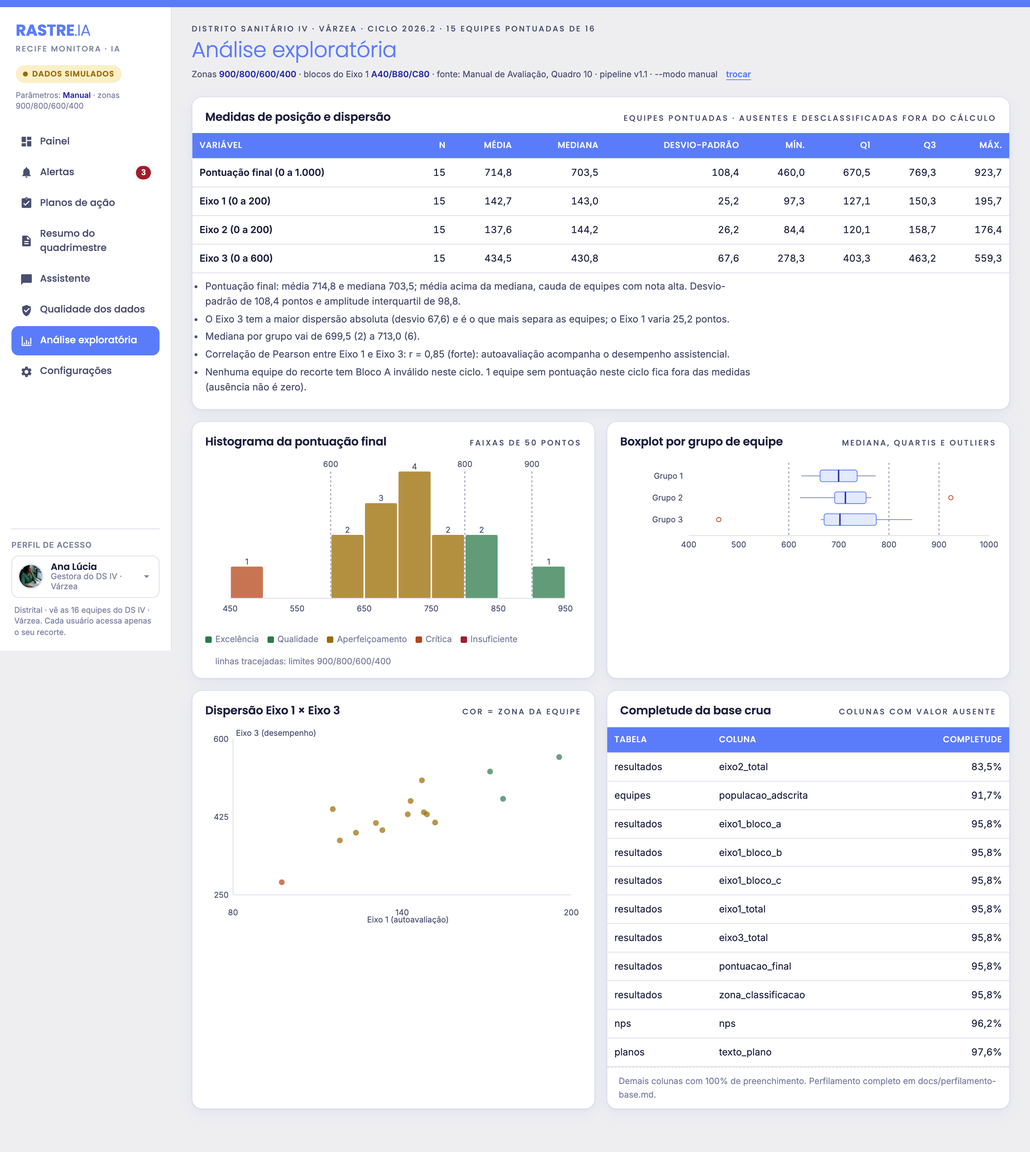
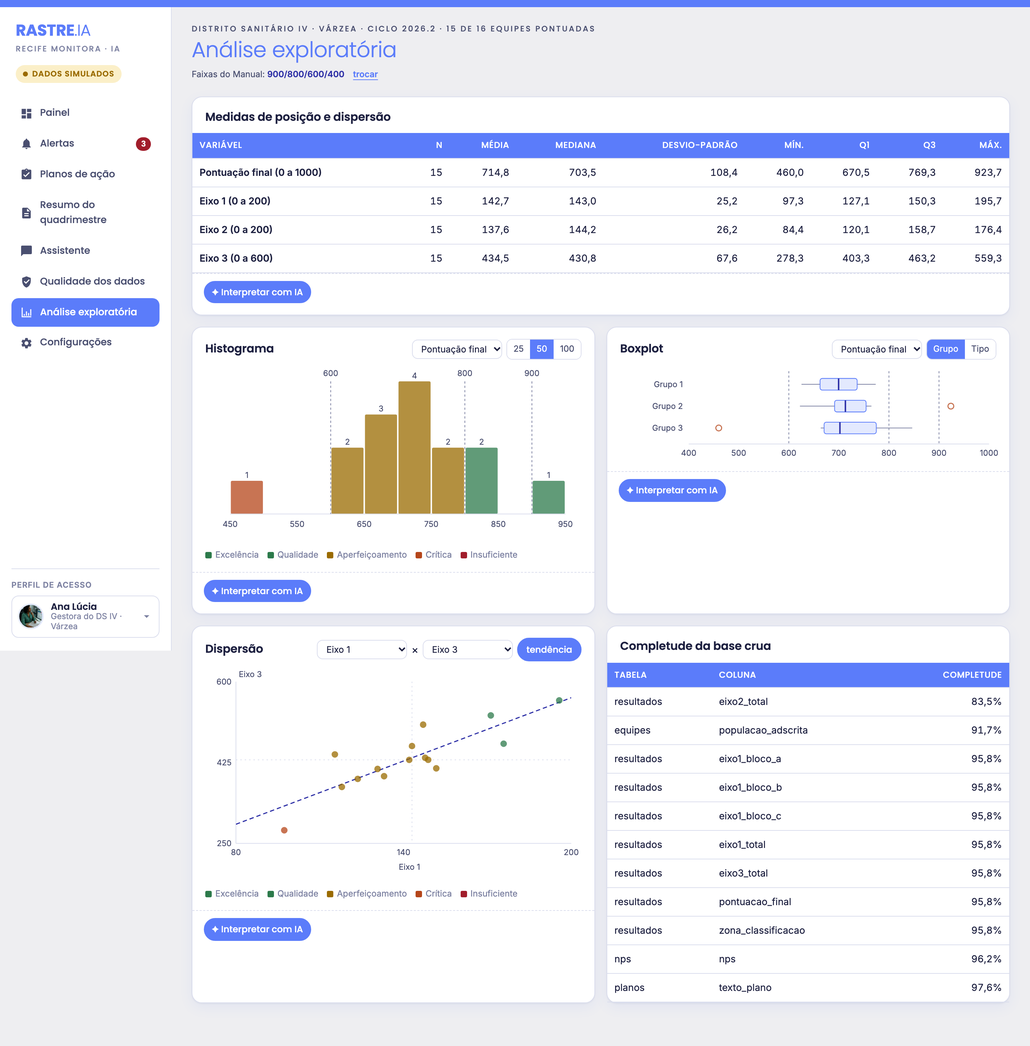
Protótipo 6: menos texto de detalhe; análise exploratória interativa com interpretação por IA

diff --git a/app/mvp6.html b/app/mvp6.html
@@ -301,18 +301,26 @@ tr.click{cursor:pointer}tr.click:hover td{background:var(--surface-2)}
 .lvl{display:inline-flex;align-items:center;gap:4px;font-size:10.5px;font-weight:600;color:var(--navy);background:var(--accent-soft);border-radius:999px;padding:2px 7px 2px 5px;margin-top:5px}
 .lvl svg{width:12px;height:12px;fill:currentColor}
 .usel-menu button.on .lvl{background:var(--accent);color:var(--accent-ink)}
-.acl-note{font-size:11px;color:var(--muted);margin-top:10px;line-height:1.4;padding:0 4px}
 .params{display:flex;flex-wrap:wrap;gap:6px;align-items:center;font-size:12px;color:var(--ink-2);margin-top:8px}
 .params b{font-weight:600;color:var(--navy)}
 .params button{color:var(--accent);font-weight:600;text-decoration:underline;text-underline-offset:3px}
-.side .pmode{margin:-12px 6px 0;font-size:11px;color:var(--muted);line-height:1.35}
-.side .pmode b{color:var(--navy)}
 .st-ok{background:var(--good-soft);color:var(--good)}.st-sin{background:var(--warn-soft);color:var(--warn)}
 .charts{display:grid;grid-template-columns:1fr 1fr;gap:16px;margin-top:16px}
 @media (max-width:980px){.charts{grid-template-columns:1fr}}
 .chart{padding:0 16px 14px}.chart svg{width:100%;height:auto;display:block}
 .chart text{font:11px Inter,system-ui,sans-serif;fill:var(--ink-2)}
 .chart .ax{stroke:var(--line)}.chart .lim{stroke:var(--muted);stroke-dasharray:3 3}
+.an-ctl{display:flex;gap:6px;align-items:center;flex-wrap:wrap}
+.an-sel{font:12.5px Inter,system-ui,sans-serif;color:var(--ink);background:var(--surface);border:1px solid var(--line);border-radius:8px;padding:4px 8px}
+.an-seg{display:inline-flex;border:1px solid var(--line);border-radius:8px;overflow:hidden}.an-seg button{border:0;background:var(--surface);color:var(--ink-2);font-size:12px;padding:4px 9px;cursor:pointer}.an-seg button.on{background:var(--accent);color:var(--accent-ink)}
+.chart .hbar{opacity:.75;cursor:pointer;transition:opacity .15s}.chart .hbar:hover,.chart .hbar.on{opacity:1}.chart .hbar.on{stroke:var(--navy);stroke-width:2}
+.chart .bx{cursor:pointer}.chart .bx:hover rect+text+line+rect,.chart .bx.on rect+text+line+rect{fill:var(--lav)}.chart .pt{cursor:pointer;opacity:.75}.chart .pt:hover{opacity:1;stroke:var(--ink);stroke-width:1.5}
+.chart .med{stroke:var(--line);stroke-dasharray:2 4}
+.legend .lg{border:0;background:none;color:var(--muted);font:inherit;cursor:pointer;padding:0}.legend .lg::before{content:"";display:inline-block;width:9px;height:9px;border-radius:2px;margin-right:5px;vertical-align:middle;background:var(--x)}.legend .lg.off{opacity:.4;text-decoration:line-through}
+.an-list{margin:0 16px 12px;padding:10px 12px;border:1px solid var(--line);border-radius:10px;display:flex;flex-wrap:wrap;gap:6px}.an-list .ia-h{width:100%}
+.ia{padding:10px 16px 16px;border-top:1px dashed var(--line)}.ia.on{font-size:13.5px;color:var(--ink-2)}.ia.on p{margin:4px 0 8px;max-width:90ch}.ia.on ul{margin:4px 0 8px;padding-left:18px}.ia.on li{margin:3px 0;max-width:90ch}.ia .srcs{display:flex;flex-wrap:wrap;margin-top:6px}.ia .scope{font-size:11.5px;color:var(--muted);margin-top:4px}.ia .typing{padding:4px 0}
+.ia-h{display:flex;justify-content:space-between;align-items:center;gap:8px;margin-bottom:4px}
+.tip{position:fixed;z-index:60;pointer-events:none;background:var(--surface);color:var(--ink);border:1px solid var(--line);border-radius:8px;padding:6px 9px;font-size:12px;line-height:1.4;box-shadow:0 6px 18px rgba(0,0,0,.15);max-width:260px}
 .obs{padding:4px 18px 16px;margin:0;color:var(--ink-2);font-size:13.5px}.obs li{margin:4px 0;max-width:90ch}
 td.r,th.r{text-align:right}
 </style>
@@ -322,7 +330,6 @@ td.r,th.r{text-align:right}
     <button class="side-close" id="side-close" aria-label="Fechar menu">×</button>
     <div class="brand"><div class="wordmark"><b>RASTRE</b><span>.IA</span></div><small>Recife Monitora · IA</small></div>
     <span class="sim" title="Base sintética enviada pelo cliente em 24/09/2026. Nenhum valor é real.">Dados simulados</span>
-    <p class="pmode" id="pmode"></p>
     <nav class="nav" id="nav"></nav>
     <div class="profile">
       <label id="profile-label">Perfil de acesso</label>
@@ -330,7 +337,6 @@ td.r,th.r{text-align:right}
         <button class="usel-btn" id="usel-btn" aria-haspopup="listbox" aria-expanded="false" aria-labelledby="profile-label"><img id="usel-img" alt=""><span><b id="usel-n"></b><small id="usel-r"></small></span><svg class="chev" viewBox="0 0 24 24"><path d="M7 10l5 5 5-5z"/></svg></button>
         <div class="usel-menu" id="usel-menu" role="listbox" hidden></div>
       </div>
-      <p class="acl-note" id="acl-note"></p>
     </div>
   </aside>
   <main class="main" id="main"></main>
@@ -431,7 +437,7 @@ function spark(h,w=200,ht=28){const pts=h.map((v,i)=>[v,i]).filter(x=>x[0]!=null
   return`<svg class="spark" viewBox="0 0 ${w} ${ht}" preserveAspectRatio="none" aria-hidden="true"><path d="${d}" fill="none" stroke="${col}" stroke-width="2" stroke-linejoin="round"/><circle cx="${last[0]}" cy="${last[1]}" r="3" fill="${col}"/></svg>`}
 function renderNav(){const scoped=alerts(PROFILES[profile].scope).filter(a=>!alertState[a.id]);const active=view==="equipe"?(origin?origin.view:"painel"):view;$("#nav").innerHTML=NAV.filter(([k])=>!["qualidade","analise"].includes(k)||profile!=="local").map(([k,l,p])=>`<button class="${active===k?"on":""}" data-v="${k}"><svg viewBox="0 0 24 24" fill="currentColor"><path d="${p}"/></svg>${l}${k==="alertas"&&scoped.length?`<span class="cnt">${scoped.length}</span>`:""}</button>`).join("");
   $("#nav").querySelectorAll("button").forEach(b=>b.onclick=()=>{view=b.dataset.v;selTeam=null;origin=null;$("#side").classList.remove("open");render();window.scrollTo(0,0)})}
-function paramLine(){return`<p class="params"><span>Zonas <b>${ZTXT}</b> · blocos do Eixo 1 <b>A${BMAX.a}/B${BMAX.b}/C${BMAX.c}</b> · fonte: ${FONTE.zonas} · ${FONTE.versao}</span><button data-go="config">trocar</button></p>`}
+function paramLine(){return`<p class="params"><span title="Zonas ${ZTXT} · blocos do Eixo 1 A${BMAX.a}/B${BMAX.b}/C${BMAX.c} · fonte: ${FONTE.zonas} · ${FONTE.versao}">Faixas do ${FONTE.curto}: <b>${ZTXT}</b></span><button data-go="config">trocar</button></p>`}
 function header(title,sub,right=""){return`<div class="topbar"><div><button class="menu-btn btn sm" id="menu">☰ Menu</button><p class="sub">${sub}</p><h1>${title}</h1>${paramLine()}</div><div class="filters">${right}</div></div>`}
 function teamCard(t){const s=score(t),st=status(t),z=zone(s),d=delta(t),b=breakdown(t);
   return`<button class="team ${st!=="ok"?"np":""}" data-id="${t.id}"><span class="nm">${t.nome}</span><span class="usf">${profile==="central"?dsShort(t.ds)+" · ":""}${t.tipo} · grupo ${t.grupo} · ${t.prof} prof.</span>${st==="ok"?`<span class="sc"><b class="num">${s}</b>${deltaHtml(d&&d.d)}</span><span class="zone ${z.cls}">${z.name}</span>`:`<span class="sc"><b class="num" style="color:var(--muted)">—</b></span><span class="badge ${st==="desclassificada"?"warn":"mute"}">${st==="desclassificada"?"Desclassificada":"Não participou"} em ${CURC}</span>`}<span class="badges">${b&&!b.av?'<span class="badge warn" title="Taxa de resposta da pesquisa interna abaixo de 30%">Bloco A inválido</span>':""}${b&&b.e2r?'<span class="badge info" title="Eixo 2 ausente na extração; reconstruído pelo pipeline">Eixo 2 reconstruído</span>':""}</span>${spark(hist(t))}</button>`}
@@ -444,7 +450,7 @@ function vPainel(){const P=PROFILES[profile];let list=teams.filter(P.scope);if(p
   const al=alerts(P.scope).filter(a=>!alertState[a.id]).slice(0,4);
   return header(profile==="local"?"Minha unidade":"Painel do distrito",`${P.label} · ciclo ${CURC} · ${list.length} equipes`,zones.map(z=>`<button class="chip ${filterZone===z?"on":""}" data-z="${z}">${z==="todas"?"Todas":z}</button>`).join(""))+tiles(list)+
   `<div class="grid2"><section class="card"><div class="sec-h"><h2>Semáforo das equipes</h2><span class="eyebrow">menor para maior pontuação</span></div><div class="teams">${shown.map(teamCard).join("")||'<div class="empty">Nenhuma equipe neste filtro.</div>'}</div></section>
-  <section class="card"><div class="sec-h"><h2>Prioridades da semana</h2><button class="more" data-go="alertas">Ver todos</button></div><div class="alerts">${al.map(alertRow).join("")||'<div class="empty">Nenhum alerta aberto neste recorte. Tudo o que foi tratado ou adiado fica em Alertas.</div>'}</div><div class="ai-note">Severidade: zonas ${ZTXT} (${FONTE.zonas}), variação desde o último ciclo com dados, participação e validade do Bloco A. Critérios a validar com o NIIMA.</div></section></div>`}
+  <section class="card"><div class="sec-h"><h2>Prioridades da semana</h2><button class="more" data-go="alertas">Ver todos</button></div><div class="alerts">${al.map(alertRow).join("")||'<div class="empty">Nenhum alerta aberto neste recorte. Tudo o que foi tratado ou adiado fica em Alertas.</div>'}</div></section></div>`}
 function alertRow(a){const st=alertState[a.id]||"";const S={crit:"Crítico",alto:"Alto",aten:"Atenção"};return`<div class="alert ${st}" data-aid="${a.id}"><div class="stripe" style="background:var(--${a.sev==="crit"?"crit":a.sev==="alto"?"serious":"warn"})"></div><div><span class="sev sev-${a.sev}">${S[a.sev]}</span><div class="t">${a.t}</div><div class="w">${a.w}</div></div><div class="act"><button class="btn pri sm" data-open="${a.team.id}">${a.act}</button>${st?`<button class="btn sm" data-undo="${a.id}">Desfazer</button>`:`<button class="btn sm" data-done="${a.id}">Tratar</button><button class="btn sm" data-snooze="${a.id}">Adiar</button>`}</div></div>`}
 function vAlertas(){const P=PROFILES[profile];const al=alerts(P.scope);const open=al.filter(a=>!alertState[a.id]);
   return header("Alertas de priorização",`${P.label} · ${open.length} abertos · ordenados por urgência`,`<span class="chip">Envio: e-mail institucional (diário)</span><span class="chip">WhatsApp e Telegram: sob aprovação</span>`)+`<section class="card"><div class="alerts">${al.map(alertRow).join("")||'<div class="empty">Sem alertas para este recorte.</div>'}</div></section>`}
@@ -525,34 +531,102 @@ const qs=(a,p)=>{const s=[...a].sort((x,y)=>x-y),i=(s.length-1)*p,lo=Math.floor(
 function desc(a){const n=a.length;if(!n)return null;const m=a.reduce((x,y)=>x+y,0)/n;const sd=Math.sqrt(a.reduce((x,y)=>x+(y-m)**2,0)/(n>1?n-1:1));return{n,m,md:qs(a,.5),sd,mn:Math.min(...a),mx:Math.max(...a),q1:qs(a,.25),q3:qs(a,.75)}}
 const f1=v=>v==null?"—":v.toLocaleString("pt-BR",{minimumFractionDigits:1,maximumFractionDigits:1});
 const ZCOL={"z-exc":"var(--good)","z-qua":"var(--good)","z-ape":"var(--warn)","z-cri":"var(--serious)","z-ins":"var(--crit)"};
-function histSvg(v){const W=520,H=220,L=36,B=28,T=18,lo=Math.floor(Math.min(...v)/50)*50,hi=Math.ceil((Math.max(...v)+.01)/50)*50,nb=(hi-lo)/50;const c=Array(nb).fill(0);v.forEach(x=>c[Math.min(nb-1,Math.floor((x-lo)/50))]++);const mx=Math.max(...c);const bw=(W-L-24)/nb;const X=x=>L+(x-lo)/(hi-lo)*(W-L-24);
-  return`<svg viewBox="0 0 ${W} ${H}" role="img" aria-label="Histograma da pontuação final">${c.map((k,i)=>{const hh=k/mx*(H-B-T);const z=zone(lo+i*50+25);return`<rect x="${L+i*bw+1}" y="${H-B-hh}" width="${bw-2}" height="${hh}" rx="2" fill="${ZCOL[z.cls]||"var(--bar)"}" opacity=".75"><title>${lo+i*50} a ${lo+i*50+49}: ${k} equipes</title></rect>${k?`<text x="${L+i*bw+bw/2}" y="${H-B-hh-3}" text-anchor="middle">${k}</text>`:""}`}).join("")}
-  <line class="ax" x1="${L}" y1="${H-B}" x2="${W-24}" y2="${H-B}"/>${ZONES.slice(0,4).filter(z=>z[2]>lo&&z[2]<hi).map(z=>`<line class="lim" x1="${X(z[2])}" y1="${T}" x2="${X(z[2])}" y2="${H-B}"/><text x="${X(z[2])}" y="${T-6}" text-anchor="middle">${z[2]}</text>`).join("")}${Array.from({length:nb+1},(_,i)=>lo+i*50).filter((_,i)=>i%2===0).map(x=>`<text x="${X(x)}" y="${H-10}" text-anchor="middle">${x}</text>`).join("")}</svg>`}
-function boxSvg(groups){const W=520,H=40+groups.length*30,L=96,R=12;const all=groups.flatMap(g=>g.v);const lo=Math.floor(Math.min(...all)/100)*100,hi=Math.ceil(Math.max(...all)/100)*100;const X=x=>L+(x-lo)/(hi-lo)*(W-L-R);
-  return`<svg viewBox="0 0 ${W} ${H}" role="img" aria-label="Boxplot da pontuação final por distrito">${ZONES.slice(0,4).filter(z=>z[2]>lo&&z[2]<hi).map(z=>`<line class="lim" x1="${X(z[2])}" y1="6" x2="${X(z[2])}" y2="${H-24}"/>`).join("")}${groups.map((g,i)=>{const d=desc(g.v),y=14+i*30,iqr=d.q3-d.q1,wl=Math.min(...g.v.filter(x=>x>=d.q1-1.5*iqr)),wh=Math.max(...g.v.filter(x=>x<=d.q3+1.5*iqr)),out=g.v.filter(x=>x<wl||x>wh);
-  return`<text x="${L-8}" y="${y+14}" text-anchor="end">${g.n}</text><line x1="${X(wl)}" y1="${y+10}" x2="${X(wh)}" y2="${y+10}" stroke="var(--muted)"/><rect x="${X(d.q1)}" y="${y+2}" width="${Math.max(1,X(d.q3)-X(d.q1))}" height="16" rx="3" fill="var(--accent-soft)" stroke="var(--accent)"><title>${g.n}: mediana ${f1(d.md)}, Q1 ${f1(d.q1)}, Q3 ${f1(d.q3)}, n=${d.n}</title></rect><line x1="${X(d.md)}" y1="${y+2}" x2="${X(d.md)}" y2="${y+18}" stroke="var(--navy)" stroke-width="2"/>${out.map(o=>`<circle cx="${X(o)}" cy="${y+10}" r="3" fill="none" stroke="var(--serious)"/>`).join("")}`}).join("")}
-  <line class="ax" x1="${L}" y1="${H-24}" x2="${W-R}" y2="${H-24}"/>${Array.from({length:(hi-lo)/100+1},(_,i)=>lo+i*100).map(x=>`<text x="${X(x)}" y="${H-8}" text-anchor="middle">${x}</text>`).join("")}</svg>`}
-function scatterSvg(pt){const W=520,H=270,L=40,B=40,T=16,R=16;const xs=pt.map(p=>p.x),ys=pt.map(p=>p.y);const x0=Math.floor(Math.min(...xs)/20)*20,x1=Math.ceil(Math.max(...xs)/20)*20,y0=Math.floor(Math.min(...ys)/50)*50,y1=Math.ceil(Math.max(...ys)/50)*50;const X=x=>L+(x-x0)/(x1-x0)*(W-L-R),Y=y=>H-B-(y-y0)/(y1-y0)*(H-B-T);
-  return`<svg viewBox="0 0 ${W} ${H}" role="img" aria-label="Dispersão Eixo 1 por Eixo 3"><line class="ax" x1="${L}" y1="${H-B}" x2="${W-R}" y2="${H-B}"/><line class="ax" x1="${L}" y1="${T}" x2="${L}" y2="${H-B}"/>${pt.map(p=>`<circle cx="${X(p.x).toFixed(1)}" cy="${Y(p.y).toFixed(1)}" r="4" fill="${ZCOL[p.z]||"var(--bar)"}" opacity=".7"><title>${p.n}: Eixo 1 ${f1(p.x)}, Eixo 3 ${f1(p.y)}</title></circle>`).join("")}
-  ${[x0,(x0+x1)/2,x1].map(x=>`<text x="${X(x)}" y="${H-12}" text-anchor="middle">${Math.round(x)}</text>`).join("")}${[y0,(y0+y1)/2,y1].map(y=>`<text x="${L-6}" y="${Y(y)+4}" text-anchor="end">${Math.round(y)}</text>`).join("")}<text x="${(W+L)/2}" y="${H-2}" text-anchor="middle">Eixo 1 (autoavaliação)</text><text x="${L+4}" y="${T-4}">Eixo 3 (desempenho)</text></svg>`}
+/* ---------- análise exploratória interativa ---------- */
+const AN={hv:"f",bin:50,bg:null,bv:"f",sx:"e1",sy:"e3",hide:[],trend:true,sel:null,ia:{}};
+const VARS=()=>({f:["Pontuação final",1000],e1:["Eixo 1",BMAX.a+BMAX.b+BMAX.c],e2:["Eixo 2",200],e3:["Eixo 3",600]});
+const pct=(a,b)=>b?Math.round(a/b*100)+"%":"—";
+const esc=s=>String(s).replace(/&/g,"&amp;").replace(/"/g,"&quot;").replace(/</g,"&lt;");
 function corr(a,b){const n=a.length,ma=a.reduce((x,y)=>x+y,0)/n,mb=b.reduce((x,y)=>x+y,0)/n;let s=0,sa=0,sb=0;for(let i=0;i<n;i++){s+=(a[i]-ma)*(b[i]-mb);sa+=(a[i]-ma)**2;sb+=(b[i]-mb)**2}return s/Math.sqrt(sa*sb)}
+function reg(a,b){const n=a.length,ma=a.reduce((x,y)=>x+y,0)/n,mb=b.reduce((x,y)=>x+y,0)/n;let s=0,sa=0;for(let i=0;i<n;i++){s+=(a[i]-ma)*(b[i]-mb);sa+=(a[i]-ma)**2}const k=s/sa;return{k,c:mb-k*ma}}
+const nomes=(xs,n=3)=>xs.slice(0,n).map(x=>x.t.nome).join(", ")+(xs.length>n?` e mais ${xs.length-n}`:"");
+function anGroups(rs,by,k){const key={ds:x=>x.t.ds,grupo:x=>"Grupo "+x.t.grupo,tipo:x=>x.t.tipo}[by];const ord=by==="ds"?DISTRICTS:[...new Set(rs.map(key))].sort();
+  return ord.map(n=>({n:by==="ds"?dsShort(n):n,it:rs.filter(x=>key(x)===n&&x.r[k]!=null)})).map(g=>({...g,v:g.it.map(x=>x.r[k])})).filter(g=>g.v.length>1)}
+function segBtns(attr,cur,opts){return`<div class="an-seg" role="group">${opts.map(([k,l])=>`<button class="${cur===k?"on":""}" ${attr}="${k}" aria-pressed="${cur===k}">${l}</button>`).join("")}</div>`}
+function varSel(attr,cur){return`<select class="an-sel" ${attr}>${Object.entries(VARS()).map(([k,[n]])=>`<option value="${k}" ${cur===k?"selected":""}>${n}</option>`).join("")}</select>`}
+
+function histSvg(it,k,bw){const v=it.map(x=>x.r[k]);const W=520,H=230,L=36,B=28,T=20,lo=Math.floor(Math.min(...v)/bw)*bw,hi=Math.ceil((Math.max(...v)+.01)/bw)*bw,nb=Math.max(1,Math.round((hi-lo)/bw));const c=Array.from({length:nb},()=>[]);it.forEach(x=>c[Math.min(nb-1,Math.floor((x.r[k]-lo)/bw))].push(x));const mx=Math.max(...c.map(b=>b.length));const w=(W-L-24)/nb;const X=x=>L+(x-lo)/(hi-lo)*(W-L-24);const S=AN.sel&&AN.sel.k==="h"?AN.sel:null;
+  return`<svg viewBox="0 0 ${W} ${H}" role="img" aria-label="Histograma de ${VARS()[k][0]}">${c.map((b,i)=>{const a=lo+i*bw,hh=b.length/mx*(H-B-T);const col=k==="f"?ZCOL[zone(a+bw/2).cls]:"var(--bar)";const on=S&&S.lo===a;
+    return`<rect class="hbar${on?" on":""}" x="${L+i*w+1}" y="${H-B-hh}" width="${Math.max(1,w-2)}" height="${Math.max(hh,b.length?1:0)}" rx="2" fill="${col}" data-hb="${a}" data-tip="<b>${a} a ${a+bw}</b><br>${b.length} equipe${b.length===1?"":"s"} · ${pct(b.length,it.length)}"></rect>${b.length?`<text x="${L+i*w+w/2}" y="${H-B-hh-4}" text-anchor="middle">${b.length}</text>`:""}`}).join("")}
+  <line class="ax" x1="${L}" y1="${H-B}" x2="${W-24}" y2="${H-B}"/>${k==="f"?ZONES.slice(0,4).filter(z=>z[2]>lo&&z[2]<hi).map(z=>`<line class="lim" x1="${X(z[2])}" y1="${T}" x2="${X(z[2])}" y2="${H-B}"/><text x="${X(z[2])}" y="${T-7}" text-anchor="middle">${z[2]}</text>`).join(""):""}${Array.from({length:nb+1},(_,i)=>lo+i*bw).filter((_,i)=>i%Math.ceil((nb+1)/8)===0).map(x=>`<text x="${X(x)}" y="${H-10}" text-anchor="middle">${x}</text>`).join("")}</svg>`}
+
+function boxSvg(groups,k){const W=520,H=40+groups.length*30,L=96,R=12;const all=groups.flatMap(g=>g.v);const st=k==="f"?100:k==="e3"?50:20;const lo=Math.floor(Math.min(...all)/st)*st,hi=Math.ceil(Math.max(...all)/st)*st;const X=x=>L+(x-lo)/(hi-lo)*(W-L-R);const S=AN.sel&&AN.sel.k==="b"?AN.sel.g:null;
+  return`<svg viewBox="0 0 ${W} ${H}" role="img" aria-label="Boxplot de ${VARS()[k][0]}">${k==="f"?ZONES.slice(0,4).filter(z=>z[2]>lo&&z[2]<hi).map(z=>`<line class="lim" x1="${X(z[2])}" y1="6" x2="${X(z[2])}" y2="${H-24}"/>`).join(""):""}${groups.map((g,i)=>{const d=desc(g.v),y=14+i*30,iqr=d.q3-d.q1,wl=Math.min(...g.v.filter(x=>x>=d.q1-1.5*iqr)),wh=Math.max(...g.v.filter(x=>x<=d.q3+1.5*iqr)),out=g.it.filter(x=>x.r[k]<wl||x.r[k]>wh);const on=S===g.n;
+  return`<g class="bx${on?" on":""}" data-bg="${esc(g.n)}" data-tip="<b>${esc(g.n)}</b> · n=${d.n}<br>mediana ${f1(d.md)} · Q1 ${f1(d.q1)} · Q3 ${f1(d.q3)}<br>mín. ${f1(d.mn)} · máx. ${f1(d.mx)}"><rect x="0" y="${y}" width="${W}" height="22" fill="transparent"/><text x="${L-8}" y="${y+14}" text-anchor="end">${esc(g.n)}</text><line x1="${X(wl)}" y1="${y+10}" x2="${X(wh)}" y2="${y+10}" stroke="var(--muted)"/><rect x="${X(d.q1)}" y="${y+2}" width="${Math.max(1,X(d.q3)-X(d.q1))}" height="16" rx="3" fill="var(--accent-soft)" stroke="var(--accent)"/><line x1="${X(d.md)}" y1="${y+2}" x2="${X(d.md)}" y2="${y+18}" stroke="var(--navy)" stroke-width="2"/></g>${out.map(o=>`<circle class="pt" cx="${X(o.r[k])}" cy="${y+10}" r="4" fill="var(--surface)" stroke="var(--serious)" stroke-width="1.5" data-id="${o.t.id}" data-tip="<b>${esc(o.t.nome)}</b><br>${f1(o.r[k])} pts · outlier · clique para abrir"/>`).join("")}`}).join("")}
+  <line class="ax" x1="${L}" y1="${H-24}" x2="${W-R}" y2="${H-24}"/>${Array.from({length:(hi-lo)/st+1},(_,i)=>lo+i*st).filter((_,i,a)=>i%Math.ceil(a.length/7)===0).map(x=>`<text x="${X(x)}" y="${H-8}" text-anchor="middle">${x}</text>`).join("")}</svg>`}
+
+function scatterSvg(pt,kx,ky){const V=VARS();const W=520,H=280,L=44,B=40,T=18,R=16;const xs=pt.map(p=>p.x),ys=pt.map(p=>p.y);const sx=kx==="f"?100:kx==="e3"?50:20,sy=ky==="f"?100:ky==="e3"?50:20;const x0=Math.floor(Math.min(...xs)/sx)*sx,x1=Math.ceil(Math.max(...xs)/sx)*sx||x0+sx,y0=Math.floor(Math.min(...ys)/sy)*sy,y1=Math.ceil(Math.max(...ys)/sy)*sy||y0+sy;const X=x=>L+(x-x0)/(x1-x0||1)*(W-L-R),Y=y=>H-B-(y-y0)/(y1-y0||1)*(H-B-T);
+  const vis=pt.filter(p=>!AN.hide.includes(p.z));const g=AN.trend&&vis.length>2?reg(vis.map(p=>p.x),vis.map(p=>p.y)):null;const mx=qs(xs,.5),my=qs(ys,.5);
+  return`<svg viewBox="0 0 ${W} ${H}" role="img" aria-label="Dispersão ${V[kx][0]} por ${V[ky][0]}"><defs><clipPath id="anclip"><rect x="${L}" y="${T}" width="${W-L-R}" height="${H-B-T}"/></clipPath></defs><line class="ax" x1="${L}" y1="${H-B}" x2="${W-R}" y2="${H-B}"/><line class="ax" x1="${L}" y1="${T}" x2="${L}" y2="${H-B}"/><line class="med" x1="${X(mx)}" y1="${T}" x2="${X(mx)}" y2="${H-B}"/><line class="med" x1="${L}" y1="${Y(my)}" x2="${W-R}" y2="${Y(my)}"/>
+  ${g?`<line x1="${X(x0)}" y1="${Y(g.c+g.k*x0)}" x2="${X(x1)}" y2="${Y(g.c+g.k*x1)}" stroke="var(--navy)" stroke-width="1.5" stroke-dasharray="6 4" clip-path="url(#anclip)"/>`:""}
+  ${vis.map(p=>`<circle class="pt" cx="${X(p.x).toFixed(1)}" cy="${Y(p.y).toFixed(1)}" r="4.5" fill="${ZCOL[p.z]||"var(--bar)"}" data-id="${p.id}" data-tip="<b>${esc(p.n)}</b><br>${V[kx][0]} ${f1(p.x)} · ${V[ky][0]} ${f1(p.y)}<br>clique para abrir a equipe"/>`).join("")}
+  ${[x0,(x0+x1)/2,x1].map(x=>`<text x="${X(x)}" y="${H-24}" text-anchor="middle">${Math.round(x)}</text>`).join("")}${[y0,(y0+y1)/2,y1].map(y=>`<text x="${L-6}" y="${Y(y)+4}" text-anchor="end">${Math.round(y)}</text>`).join("")}<text x="${(W+L)/2}" y="${H-4}" text-anchor="middle">${V[kx][0]}</text><text x="${L+4}" y="${T-6}">${V[ky][0]}</text></svg>`}
+
+/* interpretação: texto gerado a partir das estatísticas do recorte e dos filtros em uso (sem IA externa) */
+function iaTexto(key,ctx){const{rs,P,V}=ctx;const crit=rs.filter(x=>x.r.f<CRIT);
+  if(key==="med"){const cv=V.filter(x=>x.d).map(x=>({...x,cv:x.d.sd/x.d.m})).sort((a,b)=>b.cv-a.cv);const F=V[0].d;const inv=rs.filter(x=>!x.r.av);
+    return{o:`Resumo das ${F.n} equipes pontuadas de ${P.label} em ${CURC}: média ${f1(F.m)}, mediana ${f1(F.md)}, desvio-padrão ${f1(F.sd)}.`,
+      i:[`${Math.abs(F.m-F.md)<5?"Média e mediana próximas: distribuição simétrica, sem cauda que distorça a média.":F.m<F.md?`Média ${f1(F.md-F.m)} pontos abaixo da mediana: há uma cauda de equipes com nota baixa puxando a média; use a mediana para comparar recortes.`:"Média acima da mediana: poucas equipes com nota alta puxam a média."}`,
+        `${cv[0].n.split(" (")[0]} é a medida mais heterogênea em relação à própria média (coeficiente de variação ${pct(cv[0].cv,1)}); é onde as equipes mais se diferenciam e onde um apoio dirigido tem mais efeito.`,
+        inv.length?`${inv.length} equipe${inv.length===1?"":"s"} com Bloco A inválido: o Eixo 1 delas está subestimado por baixa adesão à pesquisa interna, não por desempenho.`:"Nenhuma equipe com Bloco A inválido: o Eixo 1 reflete a autoavaliação de todas."],
+      a:crit.length?`Priorizar as ${crit.length} equipes abaixo de ${CRIT} (${nomes(crit.sort((a,b)=>a.r.f-b.r.f))}).`:`Nenhuma equipe abaixo de ${CRIT}; foco em levar Aperfeiçoamento para Qualidade.`}}
+  if(key==="hist"){const k=AN.hv,[nm,max]=VARS()[k],it=rs.filter(x=>x.r[k]!=null),d=desc(it.map(x=>x.r[k]));const bw=AN.bin;const lo=Math.floor(d.mn/bw)*bw;const bins={};it.forEach(x=>{const a=lo+Math.floor((x.r[k]-lo)/bw)*bw;bins[a]=(bins[a]||0)+1});const moda=Object.entries(bins).sort((a,b)=>b[1]-a[1])[0];const in1=it.filter(x=>Math.abs(x.r[k]-d.m)<=d.sd).length;
+    const zz=k==="f"?ZONES.map(z=>[z[0],it.filter(x=>zone(x.r.f).name===z[0]).length]).filter(z=>z[1]):[];
+    return{o:`Distribuição de ${nm.toLowerCase()} em faixas de ${bw} pontos. A faixa mais frequente é ${moda[0]} a ${+moda[0]+bw} (${moda[1]} equipes).`,
+      i:[`${pct(in1,it.length)} das equipes estão a até um desvio-padrão da média (${f1(d.m-d.sd)} a ${f1(d.m+d.sd)}); metade está entre ${f1(d.q1)} e ${f1(d.q3)}.`,
+        k==="f"?`Por zona: ${zz.map(z=>`${z[0]} ${z[1]} (${pct(z[1],it.length)})`).join(", ")}.`:`A média equivale a ${pct(d.m,max)} do máximo de ${max} pontos; a margem de ganho do recorte neste eixo é de ${f1(max-d.m)} pontos por equipe.`,
+        d.mn<d.q1-1.5*(d.q3-d.q1)?`Há valores muito abaixo do conjunto (mínimo ${f1(d.mn)}): casos isolados, que pedem olhar individual e não ação para o recorte inteiro.`:`Sem valores extremos abaixo do conjunto: as notas baixas fazem parte de uma cauda contínua.`],
+      a:k==="f"&&crit.length?`Clicar nas barras à esquerda de ${CRIT} lista as equipes; cada nome abre a página da equipe.`:"Comparar com o boxplot no mesmo eixo para ver onde a cauda baixa se concentra."}}
+  if(key==="box"){const k=AN.bv,G=anGroups(rs,AN.bg,k).map(g=>({...g,d:desc(g.v)}));if(G.length<2)return{o:"O recorte tem um grupo só; não há comparação.",i:[],a:"Trocar o agrupamento."};const s=[...G].sort((a,b)=>a.d.md-b.d.md),h=[...G].sort((a,b)=>(b.d.q3-b.d.q1)-(a.d.q3-a.d.q1))[0];const peq=G.filter(g=>g.d.n<5);const lab={ds:"distrito",grupo:"grupo",tipo:"tipo de equipe"}[AN.bg];
+    const out=G.flatMap(g=>{const iqr=g.d.q3-g.d.q1;return g.it.filter(x=>x.r[k]<g.d.q1-1.5*iqr)});
+    return{o:`${VARS()[k][0]} por ${lab}: mediana de ${f1(s[0].d.md)} (${s[0].n}) a ${f1(s[s.length-1].d.md)} (${s[s.length-1].n}), diferença de ${f1(s[s.length-1].d.md-s[0].d.md)} pontos.`,
+      i:[`${s[s.length-1].d.md-s[0].d.md>50?`A diferença entre ${lab==="tipo de equipe"?"tipos":lab+"s"} é grande: parte do resultado acompanha o ${lab}, o que sugere fatores estruturais (porte, território, composição) além do desempenho individual.`:`As medianas são próximas: o ${lab} explica pouco da variação; as diferenças estão dentro de cada ${lab}.`}`,
+        `${h.n} tem a maior amplitude interquartil (${f1(h.d.q3-h.d.q1)} pontos): equipes muito diferentes entre si, que pedem apoio individual e não uma ação única para o ${lab}.`,
+        out.length?`Outliers abaixo: ${nomes(out.sort((a,b)=>a.r[k]-b.r[k]))}; ficam bem abaixo do próprio ${lab} e são candidatos a visita técnica.`:`Nenhum outlier abaixo: não há equipe isolada muito pior que o próprio ${lab}.`,
+        ...(peq.length?[`Cautela com ${peq.map(g=>g.n).join(", ")}: menos de 5 equipes, a mediana muda muito com uma equipe só.`]:[])],
+      a:`Começar por ${s[0].n} (menor mediana); clicar na caixa lista as equipes.`}}
+  if(key==="scat"){const kx=AN.sx,ky=AN.sy,V2=VARS();const pt=rs.filter(x=>x.r[kx]!=null&&x.r[ky]!=null&&!AN.hide.includes(zone(x.r.f).cls));if(pt.length<3||kx===ky)return{o:"Escolha dois eixos diferentes e mantenha ao menos 3 equipes visíveis.",i:[],a:""};const a=pt.map(x=>x.r[kx]),b=pt.map(x=>x.r[ky]);const r=corr(a,b),g=reg(a,b),mx=qs(a,.5),my=qs(b,.5);
+    const ll=pt.filter(x=>x.r[kx]<mx&&x.r[ky]<my).sort((p,q)=>p.r.f-q.r.f),hl=pt.filter(x=>x.r[kx]>=mx&&x.r[ky]<my).sort((p,q)=>p.r[ky]-q.r[ky]),lh=pt.filter(x=>x.r[kx]<mx&&x.r[ky]>=my);const f=Math.abs(r)<.3?"fraca":Math.abs(r)<.6?"moderada":"forte";
+    return{o:`${V2[kx][0]} × ${V2[ky][0]} em ${pt.length} equipes: correlação ${f} (r = ${r.toFixed(2).replace(".",",")}); cada ponto a mais em ${V2[kx][0]} acompanha ${g.k>=0?"+":""}${f1(g.k)} em ${V2[ky][0]}.`,
+      i:[Math.abs(r)<.3?`Os dois eixos medem coisas diferentes: ir bem em ${V2[kx][0]} não indica ir bem em ${V2[ky][0]}; cada eixo precisa do próprio acompanhamento.`:`Os eixos andam juntos: melhorar um tende a vir com o outro, e as equipes fracas costumam ser fracas nos dois.`,
+        `${ll.length} equipe${ll.length===1?"":"s"} abaixo da mediana nos dois eixos (quadrante inferior esquerdo)${ll.length?`: ${nomes(ll)}`:""}. São a prioridade dupla.`,
+        kx==="e1"&&hl.length?`${hl.length} equipe${hl.length===1?"":"s"} com autoavaliação acima da mediana e ${V2[ky][0]} abaixo: a autoavaliação pode estar otimista; vale conferir as evidências do Eixo 1.`:`${hl.length} equipe${hl.length===1?"":"s"} acima da mediana em ${V2[kx][0]} e abaixo em ${V2[ky][0]}; ${lh.length} no caso inverso.`,
+        "Correlação não é causa: a relação vale para o recorte e o ciclo, não explica uma equipe sozinha.",...(AN.hide.length?["Há zonas ocultas na legenda: o resultado vale só para as zonas visíveis e pode exagerar ou esconder a relação."]:[])],
+      a:"Clicar em um ponto abre a página da equipe; a legenda esconde ou mostra cada zona."}}
+  return{o:"",i:[],a:""}}
+function iaBox(key,ctx){const st=AN.ia[key];if(!st)return`<div class="ia"><button class="btn sm pri" data-ia="${key}">✦ Interpretar com IA</button></div>`;
+  if(st==="load")return`<div class="ia"><div class="typing">Analisando o gráfico e os dados do recorte…</div></div>`;
+  const x=iaTexto(key,ctx);return`<div class="ia on"><div class="ia-h"><span class="eyebrow">Interpretação da IA · ${ctx.P.label} · ${CURC}</span><button class="more" data-ia-x="${key}">fechar</button></div><p>${x.o}</p>${x.i.length?`<b>O que podemos inferir</b><ul>${x.i.map(l=>`<li>${l}</li>`).join("")}</ul>`:""}${x.a?`<b>Próximo passo</b><p>${x.a}</p>`:""}<div class="srcs"><span class="src">Base do cliente, ciclo ${CURC}</span><span class="src">Pipeline RASTRE.IA</span></div><div class="scope">Atualiza com os filtros do gráfico · revisar antes de usar em decisão · dados simulados</div></div>`}
+function selList(items,title){return items.length?`<div class="an-list"><div class="ia-h"><b>${title}</b><button class="more" data-an-x>limpar</button></div>${items.sort((a,b)=>a.r.f-b.r.f).map(x=>`<button class="chip" data-id="${x.t.id}">${x.t.nome} · ${score(x.t)}</button>`).join("")}</div>`:""}
+
 function vAnalise(){const P=PROFILES[profile];const list=teams.filter(P.scope);const rs=list.map(t=>({t,r:R(t)})).filter(x=>x.r);
-  const V=[["Pontuação final (0 a 1.000)","f"],[`Eixo 1 (0 a ${BMAX.a+BMAX.b+BMAX.c})`,"e1"],["Eixo 2 (0 a 200)","e2"],["Eixo 3 (0 a 600)","e3"]].map(([n,k])=>({n,k,d:desc(rs.map(x=>x.r[k]).filter(v=>v!=null))}));
-  const F=V[0].d;const porDs=profile==="central";const ds=(porDs?DISTRICTS.map(d=>({n:d,v:rs.filter(x=>x.t.ds===d).map(x=>x.r.f)})):[1,2,3,4].map(g=>({n:"Grupo "+g,v:rs.filter(x=>x.t.grupo===g).map(x=>x.r.f)}))).filter(g=>g.v.length>1);
-  const sc=rs.filter(x=>x.r.e1!=null&&x.r.e3!=null).map(x=>({x:x.r.e1,y:x.r.e3,z:zone(x.r.f).cls,n:x.t.nome}));const r13=sc.length>2?corr(sc.map(p=>p.x),sc.map(p=>p.y)):null;
-  const byD=ds.map(g=>({n:g.n,...desc(g.v)})).sort((a,b)=>a.md-b.md);const inv=rs.filter(x=>!x.r.av).length;const np=list.length-rs.length;
+  const VV=VARS();const V=Object.entries(VV).map(([k,[n,max]])=>({n:`${n} (0 a ${max})`,k,d:desc(rs.map(x=>x.r[k]).filter(v=>v!=null))}));const ctx={rs,P,V};
+  if(!AN.bg||(AN.bg==="ds"&&profile!=="central"))AN.bg=profile==="central"?"ds":"grupo";
+  const hi=rs.filter(x=>x.r[AN.hv]!=null);const G=anGroups(rs,AN.bg,AN.bv);
+  const sc=rs.filter(x=>x.r[AN.sx]!=null&&x.r[AN.sy]!=null).map(x=>({x:x.r[AN.sx],y:x.r[AN.sy],z:zone(x.r.f).cls,n:x.t.nome,id:x.t.id}));
+  const S=AN.sel;const hsel=S&&S.k==="h"?hi.filter(x=>x.r[AN.hv]>=S.lo&&x.r[AN.hv]<S.lo+AN.bin):[];const bsel=S&&S.k==="b"?(G.find(g=>g.n===S.g)||{it:[]}).it:[];
   const PF=PAC.meta.perfil;const low=PF.flatMap(p=>Object.entries(p.completude).filter(([,v])=>v<1).map(([c,v])=>({t:p.tabela,c,v}))).sort((a,b)=>a.v-b.v);
-  return header("Análise exploratória",`${P.label} · ciclo ${CURC} · ${rs.length} equipes pontuadas de ${list.length}`)+
-  `<section class="card"><div class="sec-h"><h2>Medidas de posição e dispersão</h2><span class="eyebrow">equipes pontuadas · ausentes e desclassificadas fora do cálculo</span></div><div class="tbl-wrap"><table><thead><tr><th>Variável</th><th class="r">n</th><th class="r">Média</th><th class="r">Mediana</th><th class="r">Desvio-padrão</th><th class="r">Mín.</th><th class="r">Q1</th><th class="r">Q3</th><th class="r">Máx.</th></tr></thead><tbody>${V.filter(x=>x.d).map(x=>`<tr><td><b>${x.n}</b></td>${[x.d.n,x.d.m,x.d.md,x.d.sd,x.d.mn,x.d.q1,x.d.q3,x.d.mx].map((v,i)=>`<td class="num r">${i?f1(v):v}</td>`).join("")}</tr>`).join("")}</tbody></table></div>
-  <ul class="obs"><li>Pontuação final: média ${f1(F.m)} e mediana ${f1(F.md)}; ${Math.abs(F.m-F.md)<5?"distribuição aproximadamente simétrica":F.m<F.md?"média abaixo da mediana, cauda de equipes com nota baixa puxa a média para baixo":"média acima da mediana, cauda de equipes com nota alta"}. Desvio-padrão de ${f1(F.sd)} pontos e amplitude interquartil de ${f1(F.q3-F.q1)}.</li>
-  ${V[3].d&&V[1].d?`<li>O Eixo 3 tem a maior dispersão absoluta (desvio ${f1(V[3].d.sd)}) e é o que mais separa as equipes; o Eixo 1 varia ${f1(V[1].d.sd)} pontos.</li>`:""}
-  ${byD.length>1?`<li>Mediana ${porDs?"por distrito":"por grupo"} vai de ${f1(byD[0].md)} (${porDs?dsShort(byD[0].n):byD[0].n}) a ${f1(byD[byD.length-1].md)} (${porDs?dsShort(byD[byD.length-1].n):byD[byD.length-1].n}).</li>`:""}
-  ${r13!=null?`<li>Correlação de Pearson entre Eixo 1 e Eixo 3: r = ${r13.toFixed(2).replace(".",",")} (${Math.abs(r13)<.3?"fraca":Math.abs(r13)<.6?"moderada":"forte"}): ${Math.abs(r13)<.3?"autoavaliação e desempenho assistencial medem coisas distintas":"autoavaliação acompanha o desempenho assistencial"}.</li>`:""}
-  <li>${inv?`${inv} equipe${inv===1?" tem":"s têm"} Bloco A inválido (taxa de resposta abaixo de 30%): o bloco entra com 0 e puxa o Eixo 1 para baixo sem refletir desempenho.`:"Nenhuma equipe do recorte tem Bloco A inválido neste ciclo."} ${np?`${np} equipe${np===1?"":"s"} sem pontuação neste ciclo ${np===1?"fica":"ficam"} fora das medidas (ausência não é zero).`:""}</li></ul></section>
-  <div class="charts"><section class="card"><div class="sec-h"><h2>Histograma da pontuação final</h2><span class="eyebrow">faixas de 50 pontos</span></div><div class="chart">${F?histSvg(rs.map(x=>x.r.f)):""}</div><div class="legend">${ZONES.map(z=>`<span style="--x:${ZCOL[z[1]]}">${z[0]}</span>`).join("")}<span>linhas tracejadas: limites ${ZTXT}</span></div></section>
-  <section class="card"><div class="sec-h"><h2>Boxplot ${porDs?"por distrito":"por grupo de equipe"}</h2><span class="eyebrow">mediana, quartis e outliers</span></div><div class="chart">${ds.length?boxSvg(ds):'<div class="empty">Recorte com um distrito só.</div>'}</div></section>
-  <section class="card"><div class="sec-h"><h2>Dispersão Eixo 1 × Eixo 3</h2><span class="eyebrow">cor = zona da equipe</span></div><div class="chart">${scatterSvg(sc)}</div></section>
-  <section class="card"><div class="sec-h"><h2>Completude da base crua</h2><span class="eyebrow">colunas com valor ausente</span></div><div class="tbl-wrap"><table><thead><tr><th>Tabela</th><th>Coluna</th><th class="r">Completude</th></tr></thead><tbody>${low.map(x=>`<tr><td>${x.t}</td><td>${x.c}</td><td class="num r">${(x.v*100).toLocaleString("pt-BR",{maximumFractionDigits:1})}%</td></tr>`).join("")}</tbody></table></div><div class="ai-note">Demais colunas com 100% de preenchimento. Perfilamento completo em docs/perfilamento-base.md.</div></section></div>`}
+  const grp=[["grupo","Grupo"],["tipo","Tipo"]];if(profile==="central")grp.unshift(["ds","Distrito"]);
+  return header("Análise exploratória",`${P.label} · ciclo ${CURC} · ${rs.length} de ${list.length} equipes pontuadas`)+
+  `<section class="card"><div class="sec-h"><h2>Medidas de posição e dispersão</h2></div><div class="tbl-wrap"><table><thead><tr><th>Variável</th><th class="r">n</th><th class="r">Média</th><th class="r">Mediana</th><th class="r">Desvio-padrão</th><th class="r">Mín.</th><th class="r">Q1</th><th class="r">Q3</th><th class="r">Máx.</th></tr></thead><tbody>${V.filter(x=>x.d).map(x=>`<tr><td><b>${x.n}</b></td>${[x.d.n,x.d.m,x.d.md,x.d.sd,x.d.mn,x.d.q1,x.d.q3,x.d.mx].map((v,i)=>`<td class="num r">${i?f1(v):v}</td>`).join("")}</tr>`).join("")}</tbody></table></div>${iaBox("med",ctx)}</section>
+  <div class="charts"><section class="card"><div class="sec-h"><h2>Histograma</h2><div class="an-ctl">${varSel("data-an-hv",AN.hv)}${segBtns("data-an-bin",String(AN.bin),[["25","25"],["50","50"],["100","100"]])}</div></div><div class="chart">${hi.length?histSvg(hi,AN.hv,AN.bin):'<div class="empty">Sem dados.</div>'}</div>${AN.hv==="f"?`<div class="legend">${ZONES.map(z=>`<span style="--x:${ZCOL[z[1]]}">${z[0]}</span>`).join("")}</div>`:""}${selList(hsel,S&&S.k==="h"?`${S.lo} a ${S.lo+AN.bin}`:"")}${iaBox("hist",ctx)}</section>
+  <section class="card"><div class="sec-h"><h2>Boxplot</h2><div class="an-ctl">${varSel("data-an-bv",AN.bv)}${segBtns("data-an-bg",AN.bg,grp)}</div></div><div class="chart">${G.length?boxSvg(G,AN.bv):'<div class="empty">Recorte com um grupo só.</div>'}</div>${selList(bsel,S&&S.k==="b"?S.g:"")}${iaBox("box",ctx)}</section>
+  <section class="card"><div class="sec-h"><h2>Dispersão</h2><div class="an-ctl">${varSel("data-an-sx",AN.sx)}<span class="muted">×</span>${varSel("data-an-sy",AN.sy)}<button class="chip ${AN.trend?"on":""}" data-an-trend aria-pressed="${AN.trend}">tendência</button></div></div><div class="chart">${sc.length>1?scatterSvg(sc,AN.sx,AN.sy):'<div class="empty">Sem dados.</div>'}</div><div class="legend">${ZONES.map(z=>`<button class="lg ${AN.hide.includes(z[1])?"off":""}" style="--x:${ZCOL[z[1]]}" data-an-z="${z[1]}" aria-pressed="${!AN.hide.includes(z[1])}">${z[0]}</button>`).join("")}</div>${iaBox("scat",ctx)}</section>
+  <section class="card"><div class="sec-h"><h2>Completude da base crua</h2></div><div class="tbl-wrap"><table><thead><tr><th>Tabela</th><th>Coluna</th><th class="r">Completude</th></tr></thead><tbody>${low.map(x=>`<tr><td>${x.t}</td><td>${x.c}</td><td class="num r">${(x.v*100).toLocaleString("pt-BR",{maximumFractionDigits:1})}%</td></tr>`).join("")}</tbody></table></div></section></div>`}
+function bindAnalise(m){const set=(k,v)=>{AN[k]=v;AN.sel=null;render()};
+  m.querySelectorAll("[data-an-hv]").forEach(el=>el.onchange=()=>set("hv",el.value));m.querySelectorAll("[data-an-bv]").forEach(el=>el.onchange=()=>set("bv",el.value));
+  m.querySelectorAll("[data-an-sx]").forEach(el=>el.onchange=()=>set("sx",el.value));m.querySelectorAll("[data-an-sy]").forEach(el=>el.onchange=()=>set("sy",el.value));
+  m.querySelectorAll("[data-an-bin]").forEach(el=>el.onclick=()=>set("bin",+el.dataset.anBin));m.querySelectorAll("[data-an-bg]").forEach(el=>el.onclick=()=>set("bg",el.dataset.anBg));
+  m.querySelectorAll("[data-an-trend]").forEach(el=>el.onclick=()=>{AN.trend=!AN.trend;render()});
+  m.querySelectorAll("[data-an-z]").forEach(el=>el.onclick=()=>{const z=el.dataset.anZ;AN.hide=AN.hide.includes(z)?AN.hide.filter(x=>x!==z):[...AN.hide,z];render()});
+  m.querySelectorAll("[data-hb]").forEach(el=>el.onclick=()=>{const lo=+el.dataset.hb;AN.sel=AN.sel&&AN.sel.k==="h"&&AN.sel.lo===lo?null:{k:"h",lo};render()});
+  m.querySelectorAll("[data-bg]").forEach(el=>el.onclick=()=>{const g=el.dataset.bg;AN.sel=AN.sel&&AN.sel.k==="b"&&AN.sel.g===g?null:{k:"b",g};render()});
+  m.querySelectorAll("[data-an-x]").forEach(el=>el.onclick=()=>{AN.sel=null;render()});
+  m.querySelectorAll("[data-ia]").forEach(el=>el.onclick=()=>{const k=el.dataset.ia;AN.ia[k]="load";render();setTimeout(()=>{if(AN.ia[k]==="load"){AN.ia[k]="ok";render()}},900)});
+  m.querySelectorAll("[data-ia-x]").forEach(el=>el.onclick=()=>{delete AN.ia[el.dataset.iaX];render()})}
+/* dica flutuante dos gráficos */
+(()=>{const tip=document.createElement("div");tip.className="tip";tip.setAttribute("role","tooltip");tip.hidden=true;document.body.appendChild(tip);
+  document.addEventListener("mousemove",e=>{const el=e.target.closest&&e.target.closest("[data-tip]");if(!el){tip.hidden=true;return}tip.innerHTML=el.dataset.tip;tip.hidden=false;const w=tip.offsetWidth,h=tip.offsetHeight;tip.style.left=Math.min(innerWidth-w-8,e.clientX+14)+"px";tip.style.top=(e.clientY-h-12<8?e.clientY+16:e.clientY-h-12)+"px"});
+  document.addEventListener("scroll",()=>tip.hidden=true,{passive:true})})();
 /* ---------- chatbot roteirizado ---------- */
 const chatLog=[];
 const QUICK=["Por que a eSF Engenho do Meio perdeu pontos?","Quais equipes do meu recorte estão abaixo de 600?","Como o Bloco A inválido afeta a nota?","Quais os prazos do ciclo 2026.2?","Que problemas a base de dados tinha?"];
@@ -593,9 +667,9 @@ function vConfig(){const P=PROFILES[profile];const I={auto:"M12 2a10 10 0 1 0 0 
   ${sw("digest","Resumo do quadrimestre automático","Receber o PDF assim que o ciclo for certificado.")}
   <div class="ai-note" style="border:0;padding:4px 2px">Perfis, acessos e regras de criticidade são definidos pelo NIIMA e não podem ser alterados aqui.</div></div>`}
 /* ---------- render ---------- */
-function renderUser(){const P=PROFILES[profile];$("#pmode").innerHTML=`Parâmetros: <b>${FONTE.curto}</b> · zonas ${ZTXT}`;$("#usel-img").src=AVATARS[profile];$("#usel-n").textContent=P.n;$("#usel-r").textContent=P.r;$("#acl-note").textContent=USERS.find(u=>u[0]===profile)[1]+". Cada usuário acessa apenas o seu recorte.";
+function renderUser(){const P=PROFILES[profile];$("#usel-img").src=AVATARS[profile];$("#usel-n").textContent=P.n;$("#usel-r").textContent=P.r;
   $("#usel-menu").innerHTML=USERS.map(([k,l])=>`<button role="option" data-p="${k}" class="${k===profile?"on":""}" aria-selected="${k===profile}"><img src="${AVATARS[k]}" alt=""><span><b>${PROFILES[k].n}</b><small>${PROFILES[k].r}</small><span class="lvl"><svg viewBox="0 0 24 24"><path d="${LEVEL_ICON[k]}"/></svg>${l.split(" · ")[0]}</span></span></button>`).join("");
-  $("#usel-menu").querySelectorAll("button").forEach(b=>b.onclick=()=>{closeMenu();if(b.dataset.p===profile)return;profile=b.dataset.p;view="painel";selTeam=null;origin=null;filterZone="todas";distFilter=null;chatLog.length=0;$("#side").classList.remove("open");render();window.scrollTo(0,0)})}
+  $("#usel-menu").querySelectorAll("button").forEach(b=>b.onclick=()=>{closeMenu();if(b.dataset.p===profile)return;profile=b.dataset.p;view="painel";selTeam=null;origin=null;filterZone="todas";distFilter=null;chatLog.length=0;AN.sel=null;AN.ia={};AN.bg=null;AN.hide=[];$("#side").classList.remove("open");render();window.scrollTo(0,0)})}
 function closeMenu(){$("#usel-menu").hidden=true;$("#usel-btn").setAttribute("aria-expanded","false")}
 function render(){renderUser();renderNav();
   const m=$("#main");m.innerHTML=view==="painel"?vPainel():view==="alertas"?vAlertas():view==="equipe"?vEquipe():view==="planos"?vPlanos():view==="resumo"?vResumo():view==="qualidade"?vQualidade():view==="analise"?vAnalise():view==="config"?vConfig():vChat();
@@ -616,6 +690,7 @@ function render(){renderUser();renderNav();
   m.querySelectorAll("[data-modo]").forEach(el=>el.onclick=()=>{if(el.dataset.modo!==MODO)setModo(el.dataset.modo)});
   const qe=$("#qexp");if(qe)qe.onclick=()=>{const b=new Blob([JSON.stringify(DATA.qualidade,null,1)],{type:"application/json"});const a=document.createElement("a");a.href=URL.createObjectURL(b);a.download=`qualidade_dados_${MODO}.json`;a.click();URL.revokeObjectURL(a.href);toast("Log de qualidade exportado.")};
   m.querySelectorAll("[data-pref]").forEach(el=>el.onclick=()=>{prefs[el.dataset.pref]=!prefs[el.dataset.pref];render()});
+  if(view==="analise")bindAnalise(m);
   const back=$("#back");if(back)back.onclick=goBack;
   const menu=$("#menu");if(menu)menu.onclick=e=>{e.stopPropagation();$("#side").classList.add("open")};
   const f=$("#chatf");if(f){f.onsubmit=e=>{e.preventDefault();const v=$("#chati").value.trim();if(v){$("#chati").value="";ask(v)}};const mm=$("#msgs");mm.scrollTop=mm.scrollHeight}}

diff --git a/app/README.md b/app/README.md
@@ -15,10 +15,10 @@ dependência externa é a fonte do Google Fonts, opcional). Publicados em
 
 ## Protótipo 6: ajustes pedidos na devolutiva do SR1
 
-- Toda tela registra, abaixo do título, as zonas e os máximos de bloco em uso, a fonte (Manual de Avaliação ou dicionário da base) e a versão do pipeline; Configurações troca o conjunto e a escolha fica salva.
+- Toda tela registra, abaixo do título, as faixas de zona em uso e a fonte (Manual ou dicionário); máximos de bloco e versão do pipeline aparecem ao passar o mouse. Configurações troca o conjunto e a escolha fica salva.
 - No modo Dicionário, os números coincidem com os do Protótipo 3 corrigido (rede em 2026.2: média 677, 16 abaixo de 550, 9 quedas de 60+); no modo Manual, com os do Protótipo 5 (média 681, 27 abaixo de 600).
 - Qualidade dos dados: contagem antes e depois de cada tratamento, situação (corrigido, mantido e sinalizado, conferido), tipo, volume antes e depois por tabela com unicidade da chave, filtro por tabela e exportação do log em JSON.
-- Nova tela Análise exploratória (perfis central e distrital): média, mediana, desvio-padrão, quartis, histograma, boxplot (por distrito ou por grupo), dispersão Eixo 1 x Eixo 3 com correlação, completude da base crua e observações escritas.
+- Nova tela Análise exploratória (perfis central e distrital): medidas de posição e dispersão, completude da base crua e gráficos interativos. Histograma com escolha da variável e da largura da faixa (clique na barra lista as equipes); boxplot por distrito, grupo ou tipo de equipe (clique na caixa lista as equipes, outliers abrem a equipe); dispersão com eixos à escolha, linha de tendência e zonas que se escondem pela legenda. Dica com os valores ao passar o mouse. Cada análise tem o botão "Interpretar com IA", que escreve o que se pode inferir e o próximo passo a partir das estatísticas do recorte e dos filtros em uso (gerado no próprio navegador, sem IA externa, como o Assistente).
 - Comparações com limiares sem arredondamento; cartão de quedas compara com o ciclo anterior.
 
 `mvp3` a `mvp6` trazem o aviso "DADOS SIMULADOS", perfis de acesso (central, distrital,
